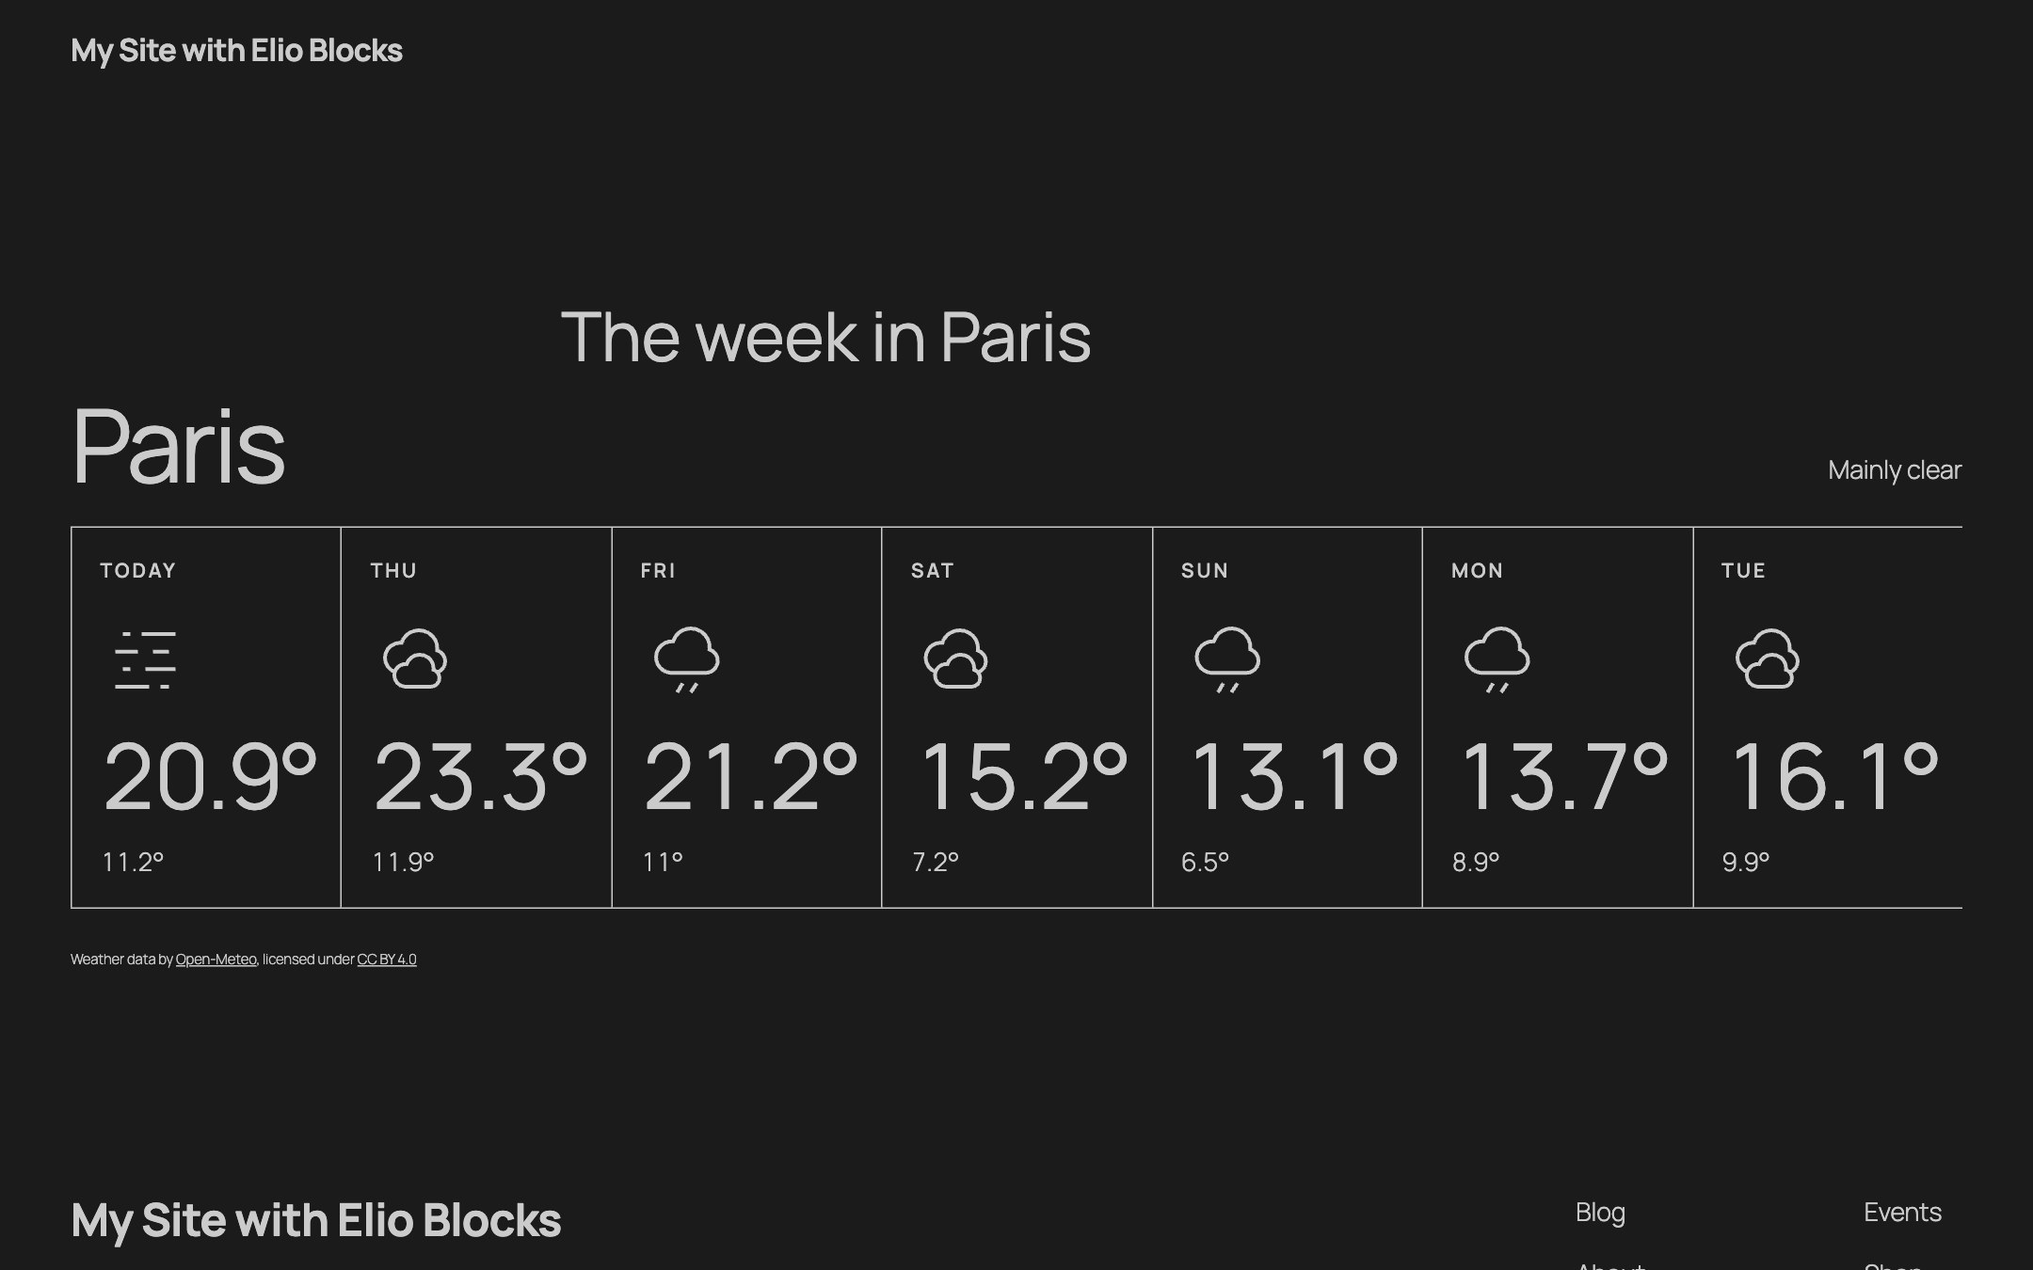
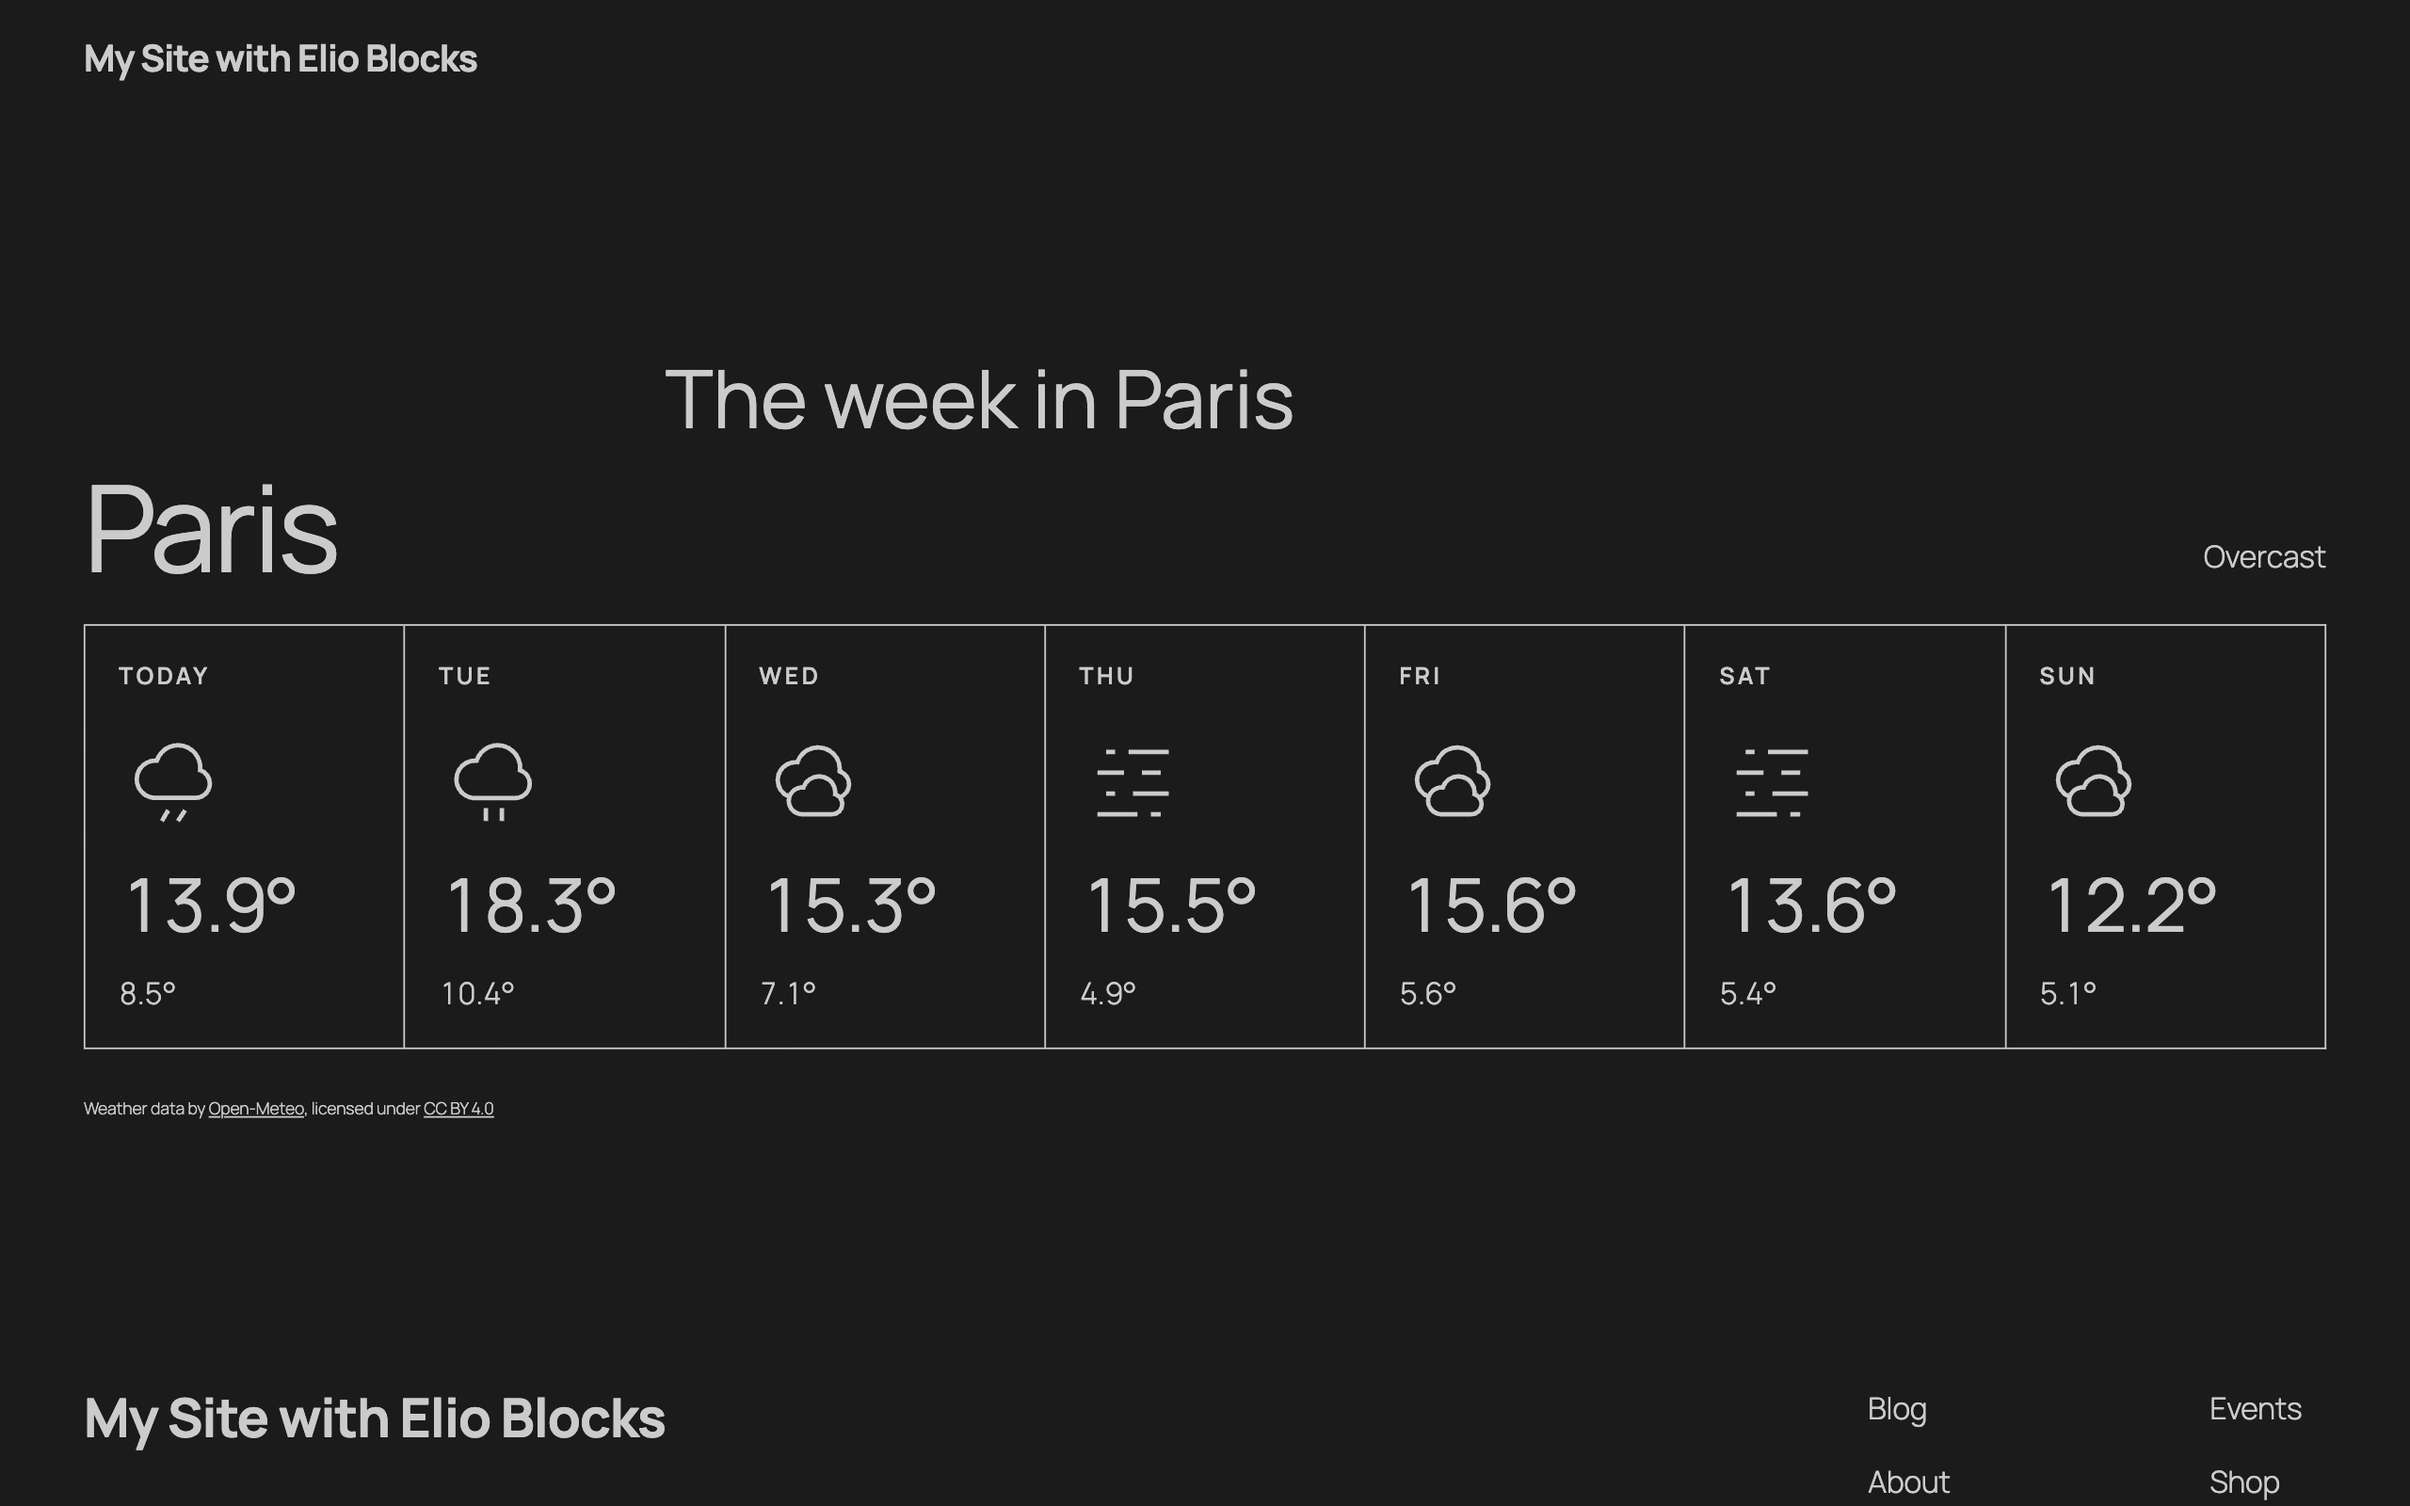
docs(wporg): every screenshot at 2560×1600, the picker in the Lisbon post
The layout picker and the settings page are taken again in the context
of the clips (the Lisbon post, the Stranger, the Elio palette), the
week in Paris with smaller highs and its last column closed, and every
screenshot at the same size.

diff --git a/docs/site/index.html b/docs/site/index.html
@@ -132,7 +132,7 @@
 								<img class="browser__poster" src="assets/wporg/screenshot-1.png" alt="The Weather block in the WordPress Block Editor, with the weather in Lisbon and its location settings." width="2560" height="1600">
 							</div>
 							<div class="browser__screen" id="live-front" role="tabpanel" aria-labelledby="live-tab-front" data-live-screen="front" data-url="my-site.test/weather-in-paris" data-width="1280">
-								<img class="browser__poster" src="assets/wporg/screenshot-2.png" alt="The daily weather forecast of Paris on the front end of a WordPress site." width="2160" height="1350">
+								<img class="browser__poster" src="assets/wporg/screenshot-2.png" alt="The daily weather forecast of Paris on the front end of a WordPress site." width="2560" height="1600">
 							</div>
 							<div class="loader" aria-hidden="true">
 								<svg class="loader__sun"><use href="icons.svg#sun"/></svg>
